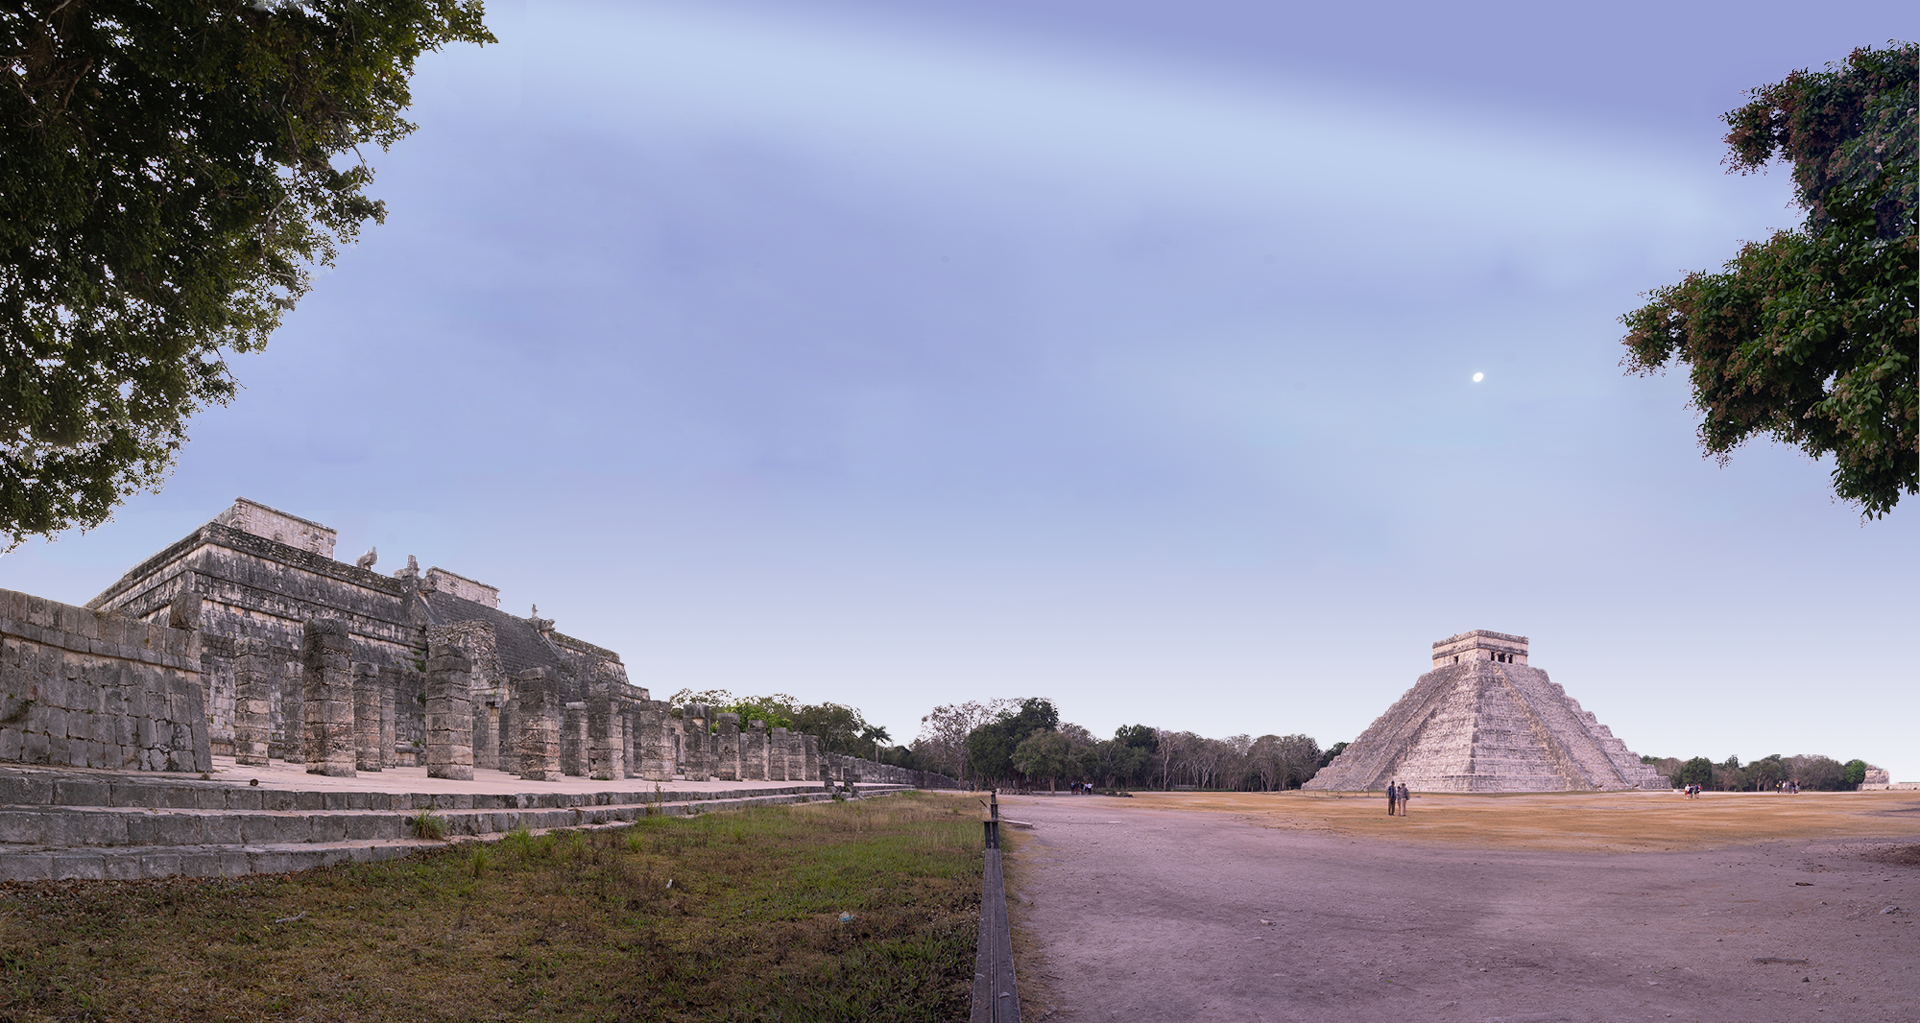
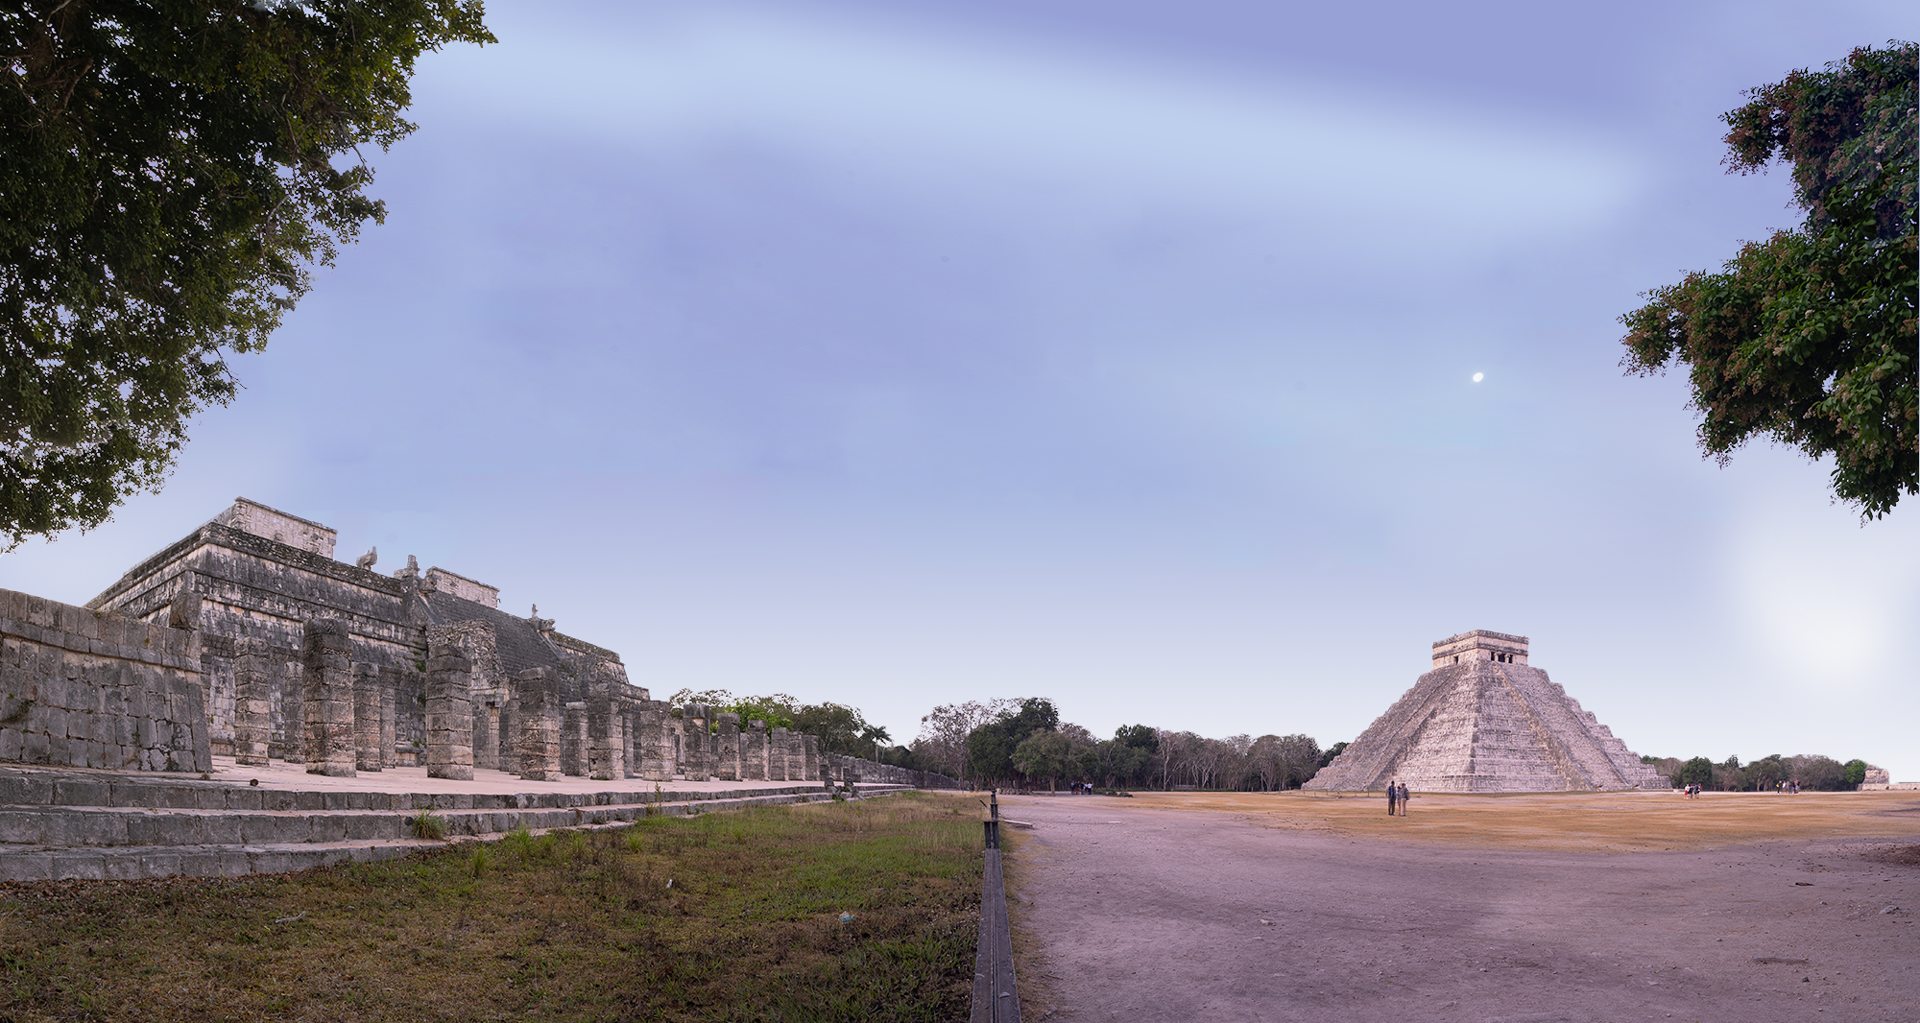
archivos finales

diff --git a/index-2.html b/index-2.html
@@ -8,6 +8,7 @@
     <script src="/js/scrollreveal.js"></script>
     <link rel="stylesheet" href="/css/index.css">
     <link rel="stylesheet" href="https://cdn.jsdelivr.net/npm/bootstrap@4.6.1/dist/css/bootstrap.min.css" integrity="sha384-zCbKRCUGaJDkqS1kPbPd7TveP5iyJE0EjAuZQTgFLD2ylzuqKfdKlfG/eSrtxUkn" crossorigin="anonymous">
+    <link rel="stylesheet" href="https://use.fontawesome.com/releases/v5.15.4/css/all.css" integrity="sha384-DyZ88mC6Up2uqS4h/KRgHuoeGwBcD4Ng9SiP4dIRy0EXTlnuz47vAwmeGwVChigm" crossorigin="anonymous">
 </head>
 <body>
     <nav class="fixed-top bg-nav">
@@ -17,11 +18,41 @@
             </li>
         </ul>
     </nav>
-   
-    <section>
-        <div class="bg-chichen">
-            <img src="/img/header/2.png" class="objeto" data-value="-2" alt="">
-            <img src="/img/header/3.png" class="objeto" data-value="-6" alt="">
+    
+    <section id="slider">
+        <div class="d-none d-sm-none d-md-block d-lg-block">
+            <div id="arboles" class="bg-chichen image-slider rellax" data-rellax-speed="-10" style="background-image: url(/img/header/2.png);">
+            </div>
+            <div class="image-slider rellax" data-rellax-speed="-10" style="background-image: url(/img/header/cielo.png); z-index: -1;">
+            </div>
+            <div class="text-slider rellax" data-rellax-speed="-10">
+                <div class="container">
+                    <div class="row">
+                        <div class="col-12">
+                            <h2 id="slider-text">IT'S ALL <br class="d-block d-sm-block d-md-none d-lg-none"> ABOUT YOU
+                                <br>
+                                <span class="enjoy">Enjoy the pleasure of fascinating experiencies</span>
+                        </div>
+                    </div>
+                </div>
+            </div>
+        </div>
+        <div class="chichen d-block d-sm-block d-md-none d-lg-none">
+            <div id="content-images">
+                <div class="image-slider rellax" data-rellax-speed="-4"
+                    style="background-image: url(/img/header/Chichen-2.png);"></div>
+                <div class="text-slider">
+                    <div class="container">
+                        <div class="row">
+                            <div class="col-12">
+                                <h2 id="slider-text">IT'S ALL <br class="d-block d-sm-block d-md-none d-lg-none"> ABOUT
+                                    YOU <br>
+                                    <span class="enjoy">Enjoy the pleasure of fascinating experiencies</span>
+                            </div>
+                        </div>
+                    </div>
+                </div>
+            </div>
         </div>
     </section>
     
@@ -99,6 +130,17 @@
         </div>
         
     </section>
+    <footer class="text-center m-0 row justify-content-center align-items-center">
+        <div class="container">
+            <div class="pt-4 pb-4">
+                <img src="/img/beyond-yucatan-logo.svg" width="200" alt="">
+            </div>
+            <!--<div class="pt-2 d-flex justify-content-center align-items-center">
+                <i class="fas fa-phone-alt text-white px-2"></i><a href="tel:529994425050" style="text-decoration: none; color: #fff;">Phone: +52 (999) 442 5050</a>
+            </div>-->
+            
+        </div>
+    </footer>
     
     <!--<script src="/js/animacion.js"></script>-->
     <script src="https://cdn.jsdelivr.net/npm/jquery@3.5.1/dist/jquery.slim.min.js" integrity="sha384-DfXdz2htPH0lsSSs5nCTpuj/zy4C+OGpamoFVy38MVBnE+IbbVYUew+OrCXaRkfj" crossorigin="anonymous"></script>
@@ -110,6 +152,18 @@
         $(window).scroll(function(){
         $('nav').toggleClass('scrolled', $(this).scrollTop() > 500);
         });
+    </script>
+    <script
+    src="https://code.jquery.com/jquery-3.6.0.js"
+    integrity="sha256-H+K7U5CnXl1h5ywQfKtSj8PCmoN9aaq30gDh27Xc0jk="
+    crossorigin="anonymous">
+    </script>
+    <script type="text/javascript">
+        $('.bg-chichen').mousemove(function(e){
+            var moveX = (e.pageX * 0/20 );
+            var moveY = (e.pageY * -1/20 );
+            $(this).css('background-position', moveX + 'px ' + moveY + 'px ')
+        })
     </script>
     
 </body>

diff --git a/css/index.css b/css/index.css
@@ -91,7 +91,36 @@
      background-position: bottom center;
      background-size: cover;
  }
+ .image-slider-1 {
+    position: absolute;
+    top: 0;
+    left: 0;
+    width: 100%;
+    height: 100%;
+    background-repeat: no-repeat;
+    background-position: bottom center;
+    background-size: cover;
+}
+/*Index 2*/
+#slider {
+    position: relative;
+    min-height: 100vh;
+}
+.bg-chichen {
+    position: absolute;
+    background-size: cover;
+    background-repeat: no-repeat;
+    background-position: center;
+}
+.bg-chichen-2 {
+    position: absolute;
+    background-size: cover;
+    background-repeat: no-repeat;
+    background-position: center;
+}
 
+
+/*end Index 2*/
  #slider-text {
      padding-top: 240px;
      color: #fff;
@@ -203,5 +232,16 @@ input {
     font-family: 'SuisseIntl-Regular';
     color: gray;
 }
+
+footer {
+    background-color: #000;
+    min-height: 80px;
+}
+
+footer p {
+    font-family: 'SuisseIntl-Regular';
+    color: #fff;
+}
+
 
 

diff --git a/js/animacion.js b/js/animacion.js
@@ -14,3 +14,12 @@ window.sr = ScrollReveal(); {
 
 };
 
+window.sr = ScrollReveal(); {
+    
+    sr.reveal('#arboles', {
+        duration: 3300,
+    });
+
+};
+
+

diff --git a/contact.php b/contact.php
@@ -38,8 +38,8 @@ switch ($inlineRadioOptions) {
 }
 
 if ($response != null && $response->success) {
-    $to = "ripmarenko@gmail.com";
-    $subject = "Nuevo Lead";
+    $to = "cecilia@beyondyucatan.travel";
+    $subject = "¡Nuevo Lead de Beyond Yucatan!";
     $headers = "MIME-Version: 1.0" . "\r\n";
     $headers .= "Content-type:text/html;charset=UTF-8" . "\r\n";
 
@@ -224,5 +224,5 @@ div[style*="margin: 16px 0;"] { margin: 0 !important; }
     mail($to, $subject, $message, $headers);
     header('Location: typ.html');
 } else {
-    echo "Algo paso";
+    echo "Algo pasó";
 }
